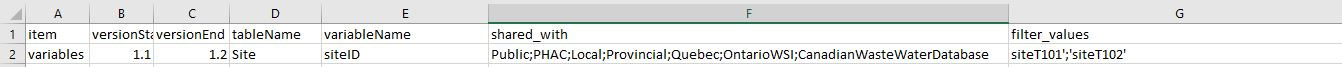
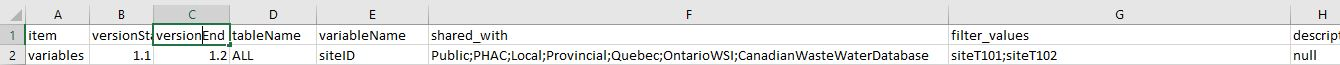
Made changes to Readme,added sections for 3 step process, removed context and added introduction section

diff --git a/sharing/README.md b/sharing/README.md
@@ -26,15 +26,31 @@ High level features include:
 - The implementation should take into account the relationship between the different tables as defined in the ODM. For example, removing a row with siteID 1 from the site table, should also remove all samples with siteID 1 from the samples table. All nested relationships should also be taken care of. The relationships between the tables can be seen [here](https://github.com/Big-Life-Lab/ODM/blob/main/metadata_en.md).
 - A python function that implements these rules should be built.
 
-### How the features will be implemented?
+# Sharing CSV Schema
 
-The ODM emphasizes open and FAIR data (Findable, Accessible, Interoperable, and Re-usable). 
+The ODM emphasizes open and FAIR data (Findable, Accessible, Interoperable, and Re-usable).
 
-### Context
+### Introduction
 
-- The data sharing takes place between the different data custodians that generate waste water surveillance data and the different organizations or data repositories such as Public health agency, Provincial health authorities, Local health authorities, with Quebec site, waste water database, the general public or any other person or organization. The data custodian can share only specific information with the specific data repositories by providing the rules in shared_data.csv file.
-- Data custodians work with their data on different platforms. The goal is to provide them a tool that can help them share their data based on the platform they use to store their data. Most data custodians use Excel to store data. Some are also using ArcGIS and Tableau. Using a python script that can accept data based on different platforms that data custodians might use to enter the data can provide a tool and common platform to share ODM data. Alternatively, the data custodians may choose to implement the sharing rules in their own data system and not use the ODM method.
-- Data will be shared by the data custodian using a web application tool where the data custodian can enter in their data and the CSV schema with their own predefined rules set for different data repositories or access groups. The back end python script will allow them to filter the data based on their provided csv schema and output back the final dataset that is ready to be shared. Pandas library in python is used for the filtration of selective variables and conditional rules that the data custodian provides. 
+The data sharing takes place between the different d ata custodians that generate waste water surveillance data and the different organizations. The data custodian can share only specific information with the specific data repositories by providing the rules in shared_data.csv file. In the schema file, each row pertains to a specific rule that will be applied to filter the data. The columns in the schema represents the sharing property or the name of the sharing rule. The data is filtered using a three step process which will allow selective sharing with different access groups and will either filter an entity which is an entire table or an entire variable or it will filter selected rows using a 'filter_values' sharing property. 
+
+Data will be shared using a web application tool where the data custodian can enter in their data and the CSV schema with their own predefined rules set for different data repositories or access groups. The back end python script that used Pandas library will allow them to filter the data and output back the final dataset that is ready to be shared. 
+
+Below are three sections that lists three main steps of sharing process:
+
+### 1. Entity filter:
+There are several different items such as tables, variable names that will have different sharing properties or rules applied to them to selectively choose what the custodian might want to share with a particular data repository.
+
+### 2. Organization filter:
+The sharing property or the rule can identify who the data is intended for. Different data repositories or organizations or public or a person can have different access level to the data as per the requirements of the data custodian. The different access groups will be identified through these rules, **shared_with** that will be part of the schema in the **shared_data.csv** file. When the data custodian logs onto the web portal to use ODM tool for data sharing, they will have options to enter the names of access groups and the tables they wish to share the data with. The names entered into web application tool must match the names entered in the CSV schema.
+
+### 3. Row filter:
+The filter can be used as a data sharing property or sharing rule that allows data custodian to selectively choose range of data values or specific values to filter from specific variables in their data before sharing their data. 
+
+### Additional sharing property:
+There will be a description for each sharing property or rule that will specify the license or permissions on how the data or specific data elements shared with a specific recipient can or can not be used.
+
+### Below are some examples of sharing process: 
 - The data custodian can filter specific entities such as the entire table or just an entire variable. The python script will automatically filter data for those tables or variables based on the rules defined for them. The **shared_data.csv** schema provides columns for table name (tableName) and variable name (variableName). The data custodian can mention the name of the table that they wish to exclude under the **tableName** column and if they wish to exclude all the variables from the table then they will need to write **ALL** under the **variableName** column for the particular table name.  
 <img src="filter_img_1.jpg" width= "750" height="50">
 An example is shown above where they can selectively choose to not share the entire table named instrument with all the variables with the Public.
@@ -43,35 +59,21 @@ An example is shown above where they can selectively choose to not share the ent
 The example in figure above illustrates how the data for Lab table can be selectively filtered to exclude all of ‘LabID’ and ‘name’ variables in the data. To exclude the entire variable, value of “ALL” is specified under the ‘filter_value’ sharing property.
 - The data custodian will be able to exclude a particular variable from all the tables that  contain that variable name. An example will be ‘contactName’ in Reporter table and Lab table. If data custodian wishes to exclude variable ‘contactName’ from all the tables that contains it, then they will simply provide the name of the variable under **variableName** column in the schema and write “ALL” under the **tableName** column. This will exclude it from all the tables. To ensure that the entire variable is removed from all the tables, the value of “ALL” is also specified under the ‘filter_value’ column. An example is illustrated below: 
 <img src="filter_img_3.jpg" width= "850" height="100">
-- Alternatively, they can also choose to filter all the tables with a common variable name for only specific values of that variable. In example below, all the tables that contain variable name ‘SampleID’ will be filtered to exclude all the values of SampleID equal to ‘S01’ and ‘S02’. The two different SampleID will be specified under the **filter_value** column separated by a ‘;’. 
-<img src="filter_img_6.jpg" width= "750" height="50">
+- Alternatively, they can also choose to filter all the tables with a common variable name for only specific values of that variable. In example below, all the tables that contain variable name ‘SampleID’ will be filtered to exclude all the values of SampleID equal to **S01** and **S02**. The two different SampleID will be specified under the **filter_value** column separated by a ‘;’. 
+<img src="filter_img_6.jpg" width= "850" height="50">
 - The data custodian can selectively choose who they don’t wish to share data with. They can exclude certain variables or specific values of a variable or the entire table from only certain access groups. They will have to provide the name of the access group they wish to exclude under the **shared_with** column in the **shared_data.csv** schema. The **shared_with** sharing property allows user to exclude specific access groups when sharing specific information. As shown in figure above the data for Reporter and Lab tables has been filtered to exclude ‘contactName’, ‘contactEmail’ variables for only the Public and Local access groups. The other access groups will still contain these variables in the final output data.
 - The web application tool will provide a form to the data custodian when requesting to share data that will accept values for the names of all the access groups (could be any organization, agency or their friend) they want to share data with and the list of tables they wish to fetch data for and will be providing in as input to the form. When the data custodian wants to exclude certain information from a certain access group, then they will use the **shared_with** sharing property in the schema and enter the names of the access groups that they want to exclude data from. The name of the access group under the ‘shared_with’ column must match the name provided in the form.
 - The data custodian can also selectively choose to filter out specific rows instead of columns from the data. If they wish to exclude data where the variables have a specific value or a specific range, then they will be able to use the **filter_value** sharing property in the schema to do that. 
-- An example of using filter_value rule will be to filter data by a specific value of a variable. If the data custodian wants to exclude siteID data that has value of ‘siteT101’ or ‘siteT102’ from all the access groups, then they would need to provide those values for SiteID variable under the filter_value column separated by ‘;’. The semicolon is used to separate two separate values or ranges. 
+- An example of using filter_value rule will be to filter data by a specific value of a variable. If the data custodian wants to exclude siteID data that has value of **siteT101** or **siteT102** from all the access groups, then they would need to provide those values for SiteID variable under the filter_value column separated by ‘;’. The semicolon is used to separate two separate values or ranges. 
 <img src="filter_img_4.jpg" width= "850" height="75">
 - Another example will be of a range of values that they wish to filter the data. In ‘WWMeasure’ table, they can filter the ‘analysisDate’ variable for different range of date values. For range, they will provide values under the **filter_value** column again. However, the range will be provided inside mathematical notations of brackets specifying the lower and upper bounds of the limit. 
-- To filter ‘analysisDate’ by excluding all the date value within the range of 25th January to 31st January but including 26th January, they will use the following notation with two ranges again separated by a ‘;’: [‘2021-01-25’, ‘2021-01-26’); (‘2021-01-26’,‘2021-01-31’]. The bracket ‘[’ and ’]’ will include the lower bound and upper bound limit in the data whereas bracket ‘(’ and ‘)’ will exclude the lower bound or the upper bound limit from the data in the two separate range specified. Data custodian can specify as many range as they want separated by a semicolon. 
+- To filter ‘analysisDate’ by excluding all the date value within the range of 25th January to 31st January but including 26th January, they will use the following notation with two ranges again separated by a ‘;’: [‘2021-01-25’, ‘2021-01-26’); (‘2021-01-26’,‘2021-01-31’]. The bracket ‘[’ and ’]’ will include the lower bound and upper bound limit in the data whereas bracket ‘(’ and ‘)’ will exclude the lower bound or the upper bound limit from the data in the two separate range specified. Data custodian can specify as many range as they want separated by a semicolon. **Whenever specifying a datetime value inside the brackets, it must be provided inside single quotes such as (‘2021-01-26’). Any datetime value outside of brackets do not need a quote as shown in figure below.**
 <img src="filter_img_5.jpg" width= "850" height="75">
 - Data custodian will be allowed to selectively choose different range or filter values for different access groups. In the above example, the data custodian chooses to filter ‘analysisDate’ column by two different ranges only for Public. However, for the remaining groups the ‘analysisDate’ column is filtered by a value and a range as illustrated in figure above. It is allowed to filter values of a variable both by a range and by a specific value. In above figure, the date value of 20th January and range between 25th January to the maximum date value is filtered or excluded from the data for all the other groups except Public, but allows 25th January due to ‘(’ sign. 
 - Infinity is accepted as a value. It will simply mean that the lowest or highest limit is the minimum or maximum for that variable in the data.
 - Data sharing will take place once the data is in the ODM compliant format after it has gone through the validation process and has been cleaned.
 
-### Sharing processes:
-
-- **items -** There are several different items such as tables, variable names that will have different sharing properties or rules applied to them to selectively choose what the custodian might want to share with a particular data repository.
-- **filter -** The filter can be used as a data sharing property or sharing rule that allows data custodian to selectively choose range of data values or specific values to share for specific variables in their data. As an example, the data custodian may not want to share their data for the entire time range and will only want to enter a specific timeframe for which the data can be shared. 
-- **who -** The sharing property or the rule can identify who the data is intended for. Different data repositories or organizations or public or a person can have different access level to the data as per the requirements of the data custodian. The different access groups will be identified through these rules, **shared_with** that will be part of the schema in the **shared_data.csv** file. When the data custodian logs onto the web portal to use ODM tool for data sharing, they will have options to enter the names of access groups and the tables they wish to share the data with.
-- **description -** There will be a description for each sharing property or rule that will specify the license or permissions on how the data or specific data elements shared with a specific recipient can or can not be used.
-- **extensible -** Since the waste water surveillance is rapidly developing, it will be necessary to make the sharing process more adaptable and extensible for growing changes and processes that allows users to add more variables and rules in the schema for sharing.
-
 ### Sharing schema and rules
-
-- The sharing schema defines the rules that will be used to selectively filter the data for the data custodians who want to share only specific part of their data with a specific data repository. The ODM will create the main schema in the **shared_data.csv** file which will be updated in each version. However, the ODM users will be able to extend or develop the schemas for their own specific applications.
-
-- Pandas is a library in python which provides features to do extensive data manipulations including conditional filtration based on different rules. These rules are provided by the data custodian in **shared_data.csv** file which is converted into a json python object which is then used with Pandas library to select variables based on those provided rules. Having the schema for sharing in a CSV format allows non-data scientists to develop their specific data sharing specifications or rules.
-
-- A sharing schema allows ODM users to provide consistent format for sharing data that can be used to filter data based on their specifications.
 
 Following are the rules in the version v1.2 that are part of **shared_data.csv** file:
 
@@ -81,7 +83,7 @@ Following are the rules in the version v1.2 that are part of **shared_data.csv**
 
 **shared_with:** This rule allows data custodian to enter the names of the access groups that they do not want to share specific portions of their data with. In the web application form, the data custodian will provide names of all the access groups that they want to share data with. In the schema, they can selectively choose to exclude specific portions of the data with specific groups by providing their names under the ‘shared_with’ column.
 
-**filter_value:** This rule allows user to filter data with specific values of a variable or a specific range of values. This property can allow user to remove specific rows in the data based on a certain condition or can also remove an entire variable. To remove all the rows corresponding to an entire variable in the data, the user will need to enter ‘ALL’ value for this property. If a user wishes to remove selective rows that corresponds to specific values of a variable in the data, then they can enter those values for the particular variable name under this property. If there is more than one value it must be separated by a semicolon. An example will be ‘siteT101’;‘siteT102’ for the siteID variable. Apart from specific values, ranges are also allowed and provided within brackets where ‘[’ and ’]’ indicates including the lower and upper bound limits whereas ‘(’ and ‘)’ indicates excluding the lower and upper bound limits. More than one range can be excluded and they must be separated by a semicolon.
+**filter_value:** This rule allows user to filter data with specific values of a variable or a specific range of values. This property can allow user to remove specific rows in the data based on a certain condition or can also remove an entire variable. To remove all the rows corresponding to an entire variable in the data, the user will need to enter ‘ALL’ value for this property. If a user wishes to remove selective rows that corresponds to specific values of a variable in the data, then they can enter those values for the particular variable name under this property. If there is more than one value it must be separated by a semicolon. An example will be siteT101;siteT102 for the siteID variable. Apart from specific values, ranges are also allowed and provided within brackets where ‘[’ and ’]’ indicates including the lower and upper bound limits whereas ‘(’ and ‘)’ indicates excluding the lower and upper bound limits. More than one range can be excluded and they must be separated by a semicolon. Datetime values mentioned inside the brackets as a range are always written inside quotes. The datetime values outside of the bracket as a single value is not written inside quotes. The integers and other string characters whether inside brackets or **not** are not written inside quotes.
 
 **description_license:** This rule will be free text column that allows user to enter the details about data sharing agreement and how the data will be used by different access groups with the permissions that each group may have for usage of data and specific variables or tables.
 
